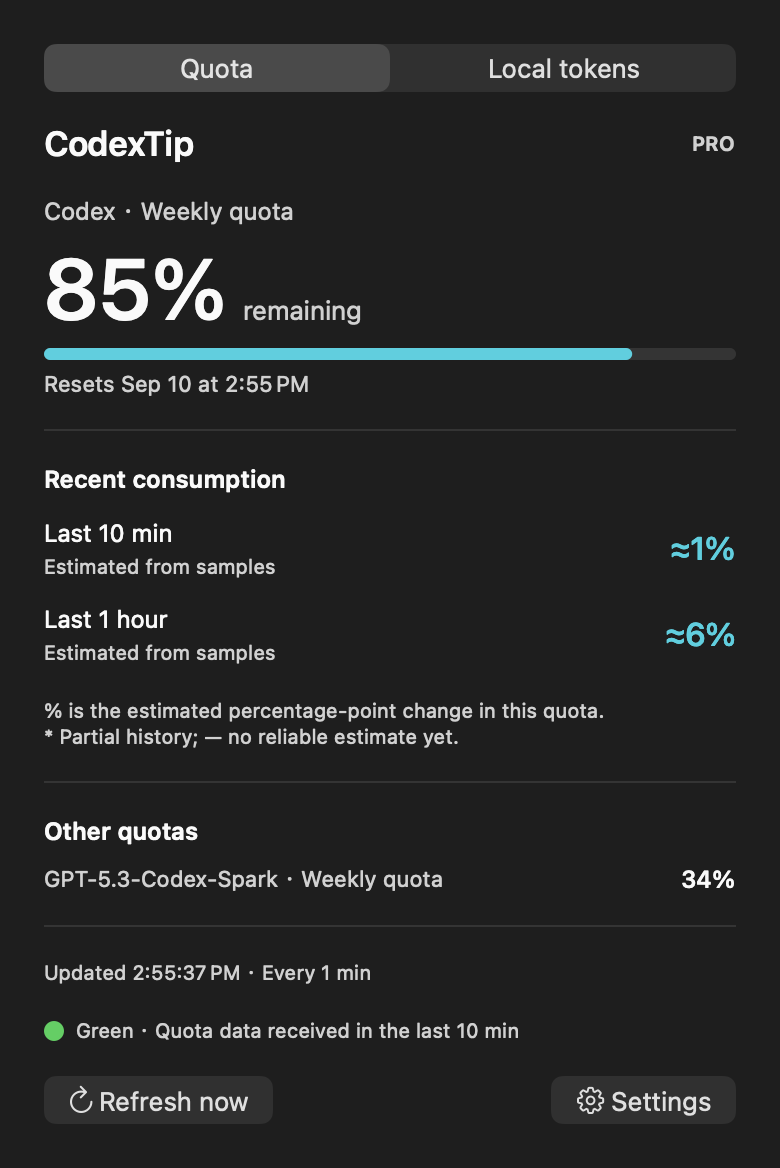
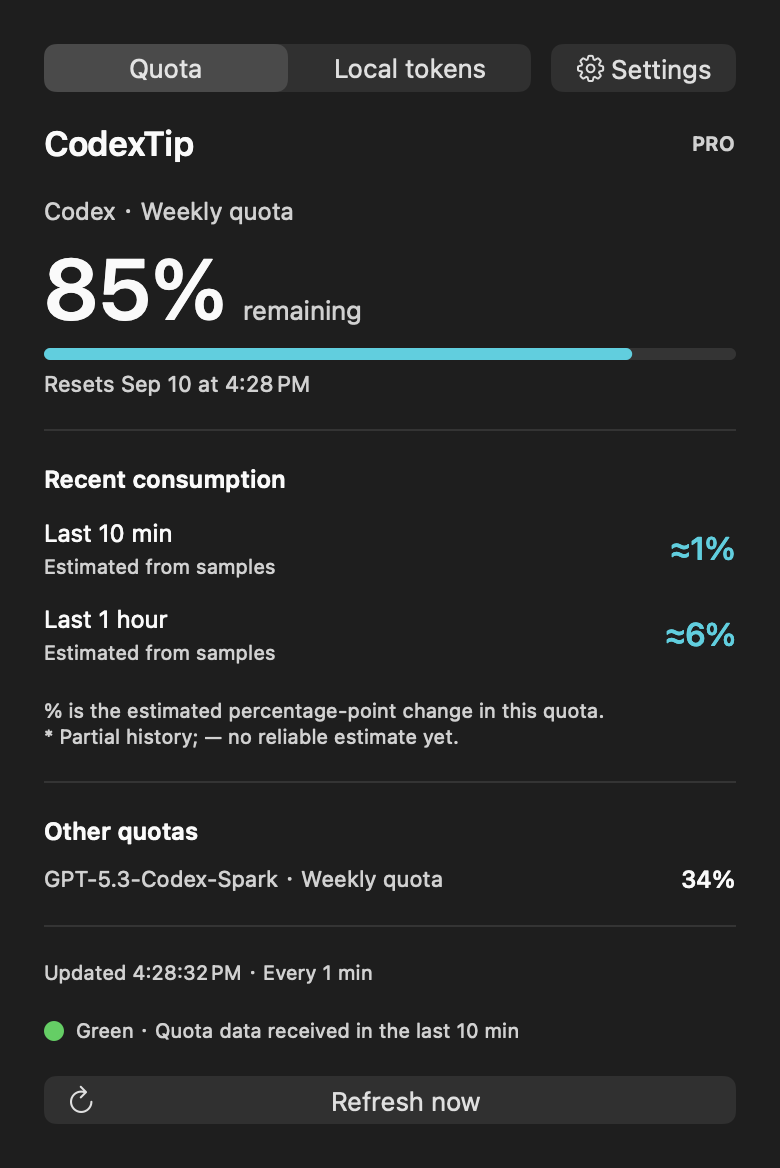
修复本地用量页缺少设置入口，统一固定顶部设置按钮

diff --git a/Sources/CodexTip/Dashboard.swift b/Sources/CodexTip/Dashboard.swift
@@ -46,7 +46,17 @@ final class DashboardController: NSViewController {
         let tabs = NSSegmentedControl(labels: [L10n.text("订阅额度", "Quota"), L10n.text("本地 Token", "Local tokens")], trackingMode: .selectOne, target: self, action: #selector(tabChanged(_:)))
         tabs.selectedSegment = showsLocalTokens ? 1 : 0
         tabs.segmentDistribution = .fillEqually
-        add(tabs)
+        // Shared controls stay outside either page's scrolling content.
+        let settings = NSButton(title: L10n.text("设置", "Settings"), target: self, action: #selector(settingsClicked(_:)))
+        settings.bezelStyle = .rounded
+        settings.image = NSImage(systemSymbolName: "gearshape", accessibilityDescription: nil)
+        settings.imagePosition = .imageLeading
+        settings.setContentHuggingPriority(.required, for: .horizontal)
+        settings.setContentCompressionResistancePriority(.required, for: .horizontal)
+        tabs.setContentHuggingPriority(.defaultLow, for: .horizontal)
+        let header = NSStackView(views: [tabs, settings])
+        header.orientation = .horizontal; header.alignment = .centerY; header.spacing = 10; header.distribution = .fill
+        add(header)
         if showsLocalTokens {
             let panel = localPanel.view
             localPanel.rebuild()
@@ -136,11 +146,7 @@ final class DashboardController: NSViewController {
         refresh.bezelStyle = .rounded; refresh.isEnabled = !app.refreshing
         refresh.image = NSImage(systemSymbolName: "arrow.clockwise", accessibilityDescription: nil)
         refresh.imagePosition = .imageLeading
-        let settings = NSButton(title: L10n.text("设置", "Settings"), target: self, action: #selector(settingsClicked(_:)))
-        settings.bezelStyle = .rounded
-        settings.image = NSImage(systemSymbolName: "gearshape", accessibilityDescription: nil)
-        settings.imagePosition = .imageLeading
-        add(row(refresh, settings))
+        add(refresh)
         finishLayout(stack)
     }
 

diff --git a/Sources/CodexTipCore/CodexClient.swift b/Sources/CodexTipCore/CodexClient.swift
@@ -35,7 +35,7 @@ public final class CodexClient {
         let connection = try Connection(path: path, timeout: timeout)
         defer { connection.close() }
         _ = try connection.request(id: 1, method: "initialize", params: [
-            "clientInfo": ["name": "codextip", "title": "CodexTip", "version": "1.6.0"],
+            "clientInfo": ["name": "codextip", "title": "CodexTip", "version": "1.6.1"],
             "capabilities": [:] as [String: Any]
         ])
         try connection.send(["method": "initialized", "params": [:] as [String: Any]])

diff --git a/README.en.md b/README.en.md
@@ -73,7 +73,7 @@ Local builds use an ad-hoc signature for use on your own Mac. Distributing a com
 
 ## Settings and language
 
-Click the menu bar quota, then **Settings / 设置**.
+Click the menu bar quota, then **Settings / 设置 in the top-right corner**. Settings is available on both Quota and Local tokens; the button stays visible while scrolling local history.
 
 | Setting | Options |
 | --- | --- |

diff --git a/README.md b/README.md
@@ -73,7 +73,7 @@ open -g ./dist/CodexTip.app
 
 ## 设置与语言
 
-点击菜单栏额度 → **设置 / Settings**。
+点击菜单栏额度 → **面板右上角「设置 / Settings」**。「订阅额度」和「本地 Token」两页都能直接打开设置；本地历史滚动时，顶部设置按钮保持可见。
 
 | 设置项 | 说明 |
 | --- | --- |
